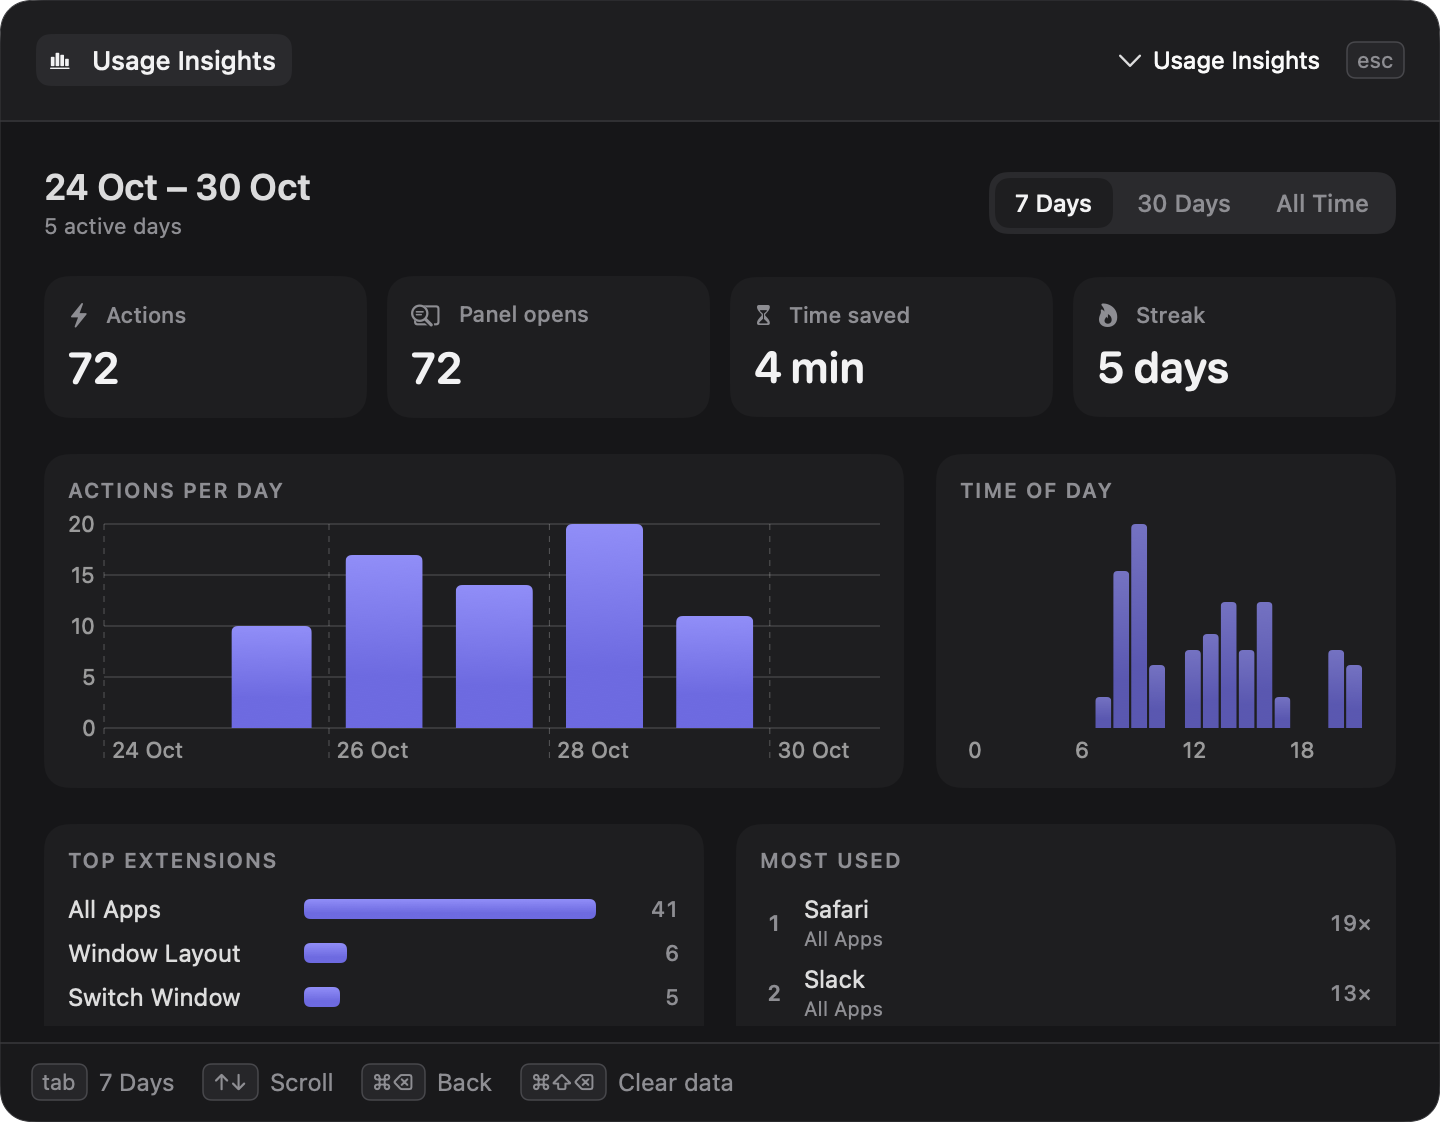
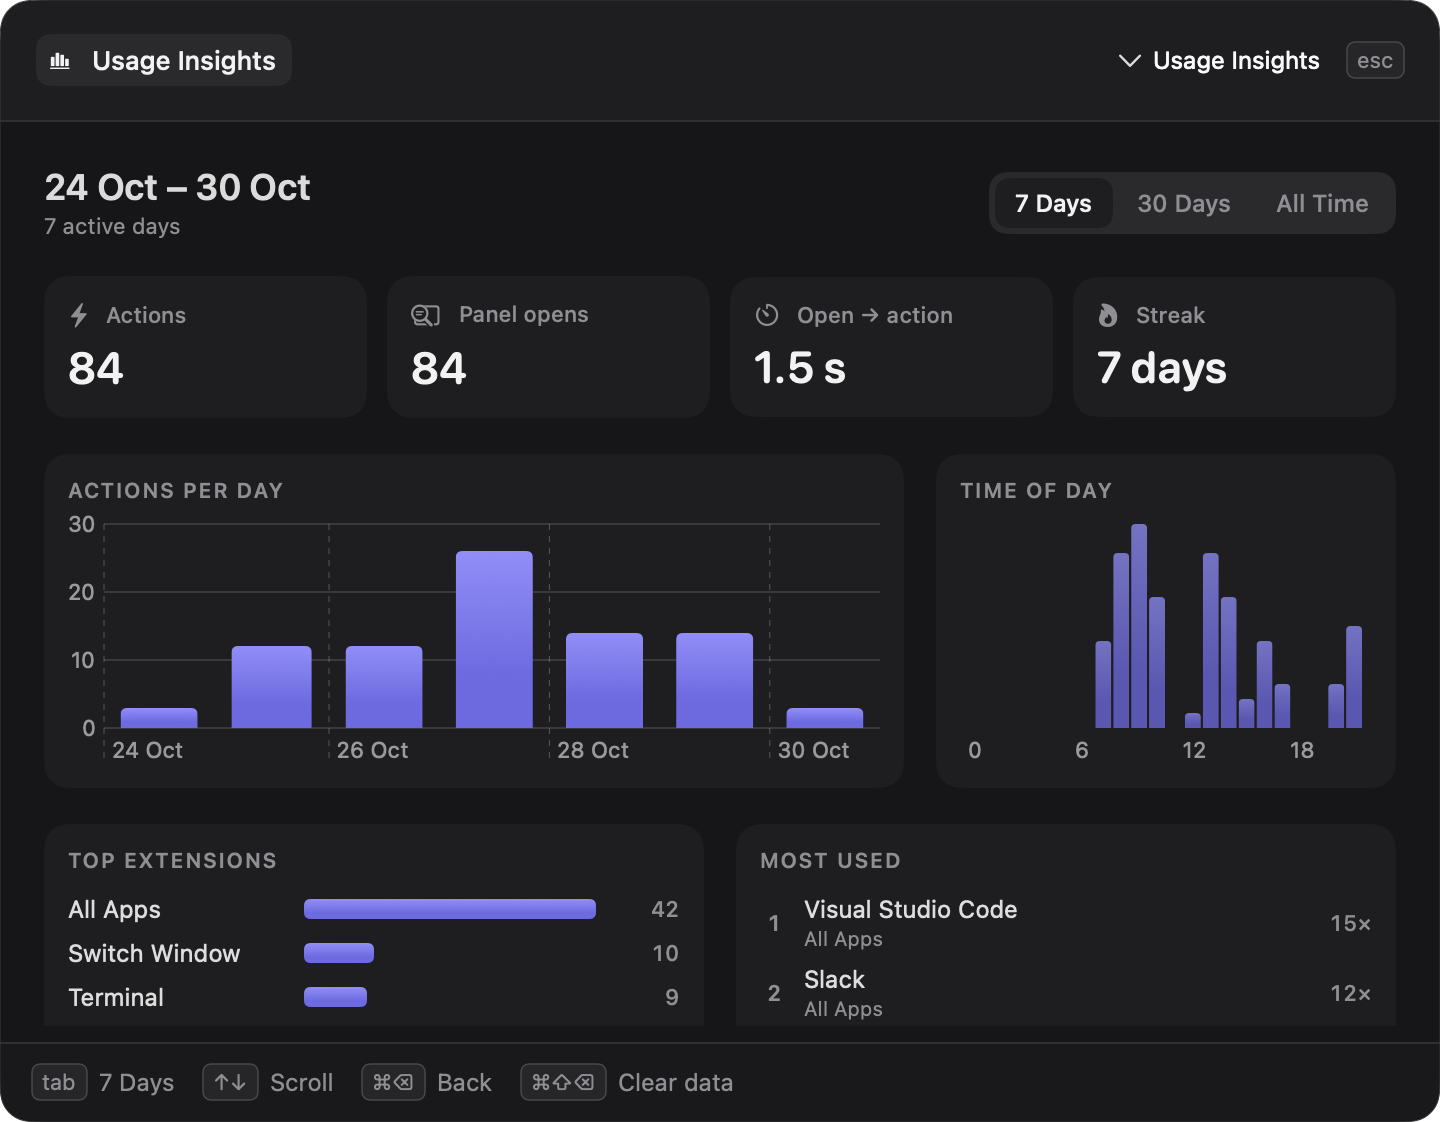
Usage Insights: drop the 'time saved' estimate
It was a flat 3 s per action, not a measurement. The tile now shows the measured
median time from opening the panel to running an action.

diff --git a/Sources/Slashlight/Host/Usage.swift b/Sources/Slashlight/Host/Usage.swift
@@ -181,9 +181,6 @@ struct UsageReport {
         let count: Int
     }
 
-    /// Rough time a keyboard launch saves over finding the same thing with the mouse.
-    static let secondsSavedPerAction = 3.0
-
     let period: Period
     let opens: Int
     let actions: Int
@@ -202,8 +199,6 @@ struct UsageReport {
     /// Median milliseconds from opening the panel to running an action.
     let medianLatency: Int?
     let unused: [String]
-
-    var minutesSaved: Double { Double(actions) * Self.secondsSavedPerAction / 60 }
 
     /// `extensions` maps every enabled extension id to its title; the ones never used show up in `unused`.
     init(events: [UsageEvent], period: Period, extensions: [String: String], now: Date = Date(), calendar: Calendar = .current) {
@@ -276,7 +271,6 @@ struct UsageReport {
         if let share = keyboardShare, share < 0.8 {
             out.append("\(Int((1 - share) * 100))% of picks were mouse clicks. ↵ runs the selection and ⌘1…⌘9 run any of the first nine.")
         }
-        if minutesSaved >= 1 { out.append("That's about \(Int(minutesSaved.rounded())) minutes saved versus reaching for the mouse.") }
         if let idea = unused.first { out.append("Haven't tried \(idea) yet? Type / to find it.") }
         return out
     }

diff --git a/Sources/Slashlight/Extensions/InsightsExtension.swift b/Sources/Slashlight/Extensions/InsightsExtension.swift
@@ -160,7 +160,7 @@ struct InsightsDashboard: View {
         HStack(spacing: 10) {
             tile("Actions", "\(r.actions)", "bolt.fill")
             tile("Panel opens", "\(r.opens)", "rectangle.and.text.magnifyingglass")
-            tile("Time saved", r.minutesSaved < 60 ? "\(Int(r.minutesSaved.rounded())) min" : String(format: "%.1f h", r.minutesSaved / 60), "hourglass")
+            tile("Open → action", r.medianLatency.map { String(format: "%.1f s", Double($0) / 1000) } ?? "—", "timer")
             tile("Streak", "\(r.streak) day\(r.streak == 1 ? "" : "s")", "flame.fill")
         }
     }
@@ -264,7 +264,6 @@ struct InsightsDashboard: View {
                 HStack(spacing: 14) {
                     if let s = r.firstResultShare { metric("First-result picks", "\(Int(s * 100))%") }
                     if let s = r.keyboardShare { metric("From the keyboard", "\(Int(s * 100))%") }
-                    if let l = r.medianLatency { metric("Open → action", String(format: "%.1f s", Double(l) / 1000)) }
                     metric("Active days", "\(r.activeDays)")
                 }
                 .padding(.top, 4)

diff --git a/Tests/SlashlightTests/UsageReportTests.swift b/Tests/SlashlightTests/UsageReportTests.swift
@@ -90,11 +90,6 @@ struct UsageReportTests {
         // Latencies over a minute (panel left open) are ignored.
         #expect(r.medianLatency == 1000)
     }
-
-    @Test func minutesSaved() {
-        let r = report((0..<40).map { _ in run("apps", "Safari") })
-        #expect(r.minutesSaved == 2)
-    }
 }
 
 @Suite("Usage event format")

diff --git a/README.md b/README.md
@@ -34,7 +34,7 @@ Apps, files, windows on every Space, a calculator, snippets, clipboard history a
 | <img src="docs/images/commands.png" alt="Command mode listing all extensions" width="420"> | **Command mode.** Type `/` for every extension and your own commands: shell scripts, URLs with `{query}` quicklinks, Shortcuts, HTTP calls and AppleScript. |
 | <img src="docs/images/emoji-dark.png" alt="Emoji picker grid" width="420"> | **Emoji & symbols.** A searchable grid with recents first, plus ⌘ ⌥ → © and friends. |
 | <img src="docs/images/system-dark.png" alt="System commands" width="420"> | **System commands.** Lock, sleep, restart, empty trash, eject disks, toggle dark mode, quit all apps. |
-| <img src="docs/images/insights-dark.png" alt="Usage Insights dashboard" width="420"> | **Usage Insights.** `/insights` shows what you use most, when you're busiest, your streak and how much time the keyboard saves you. The data stays on your Mac. |
+| <img src="docs/images/insights-dark.png" alt="Usage Insights dashboard" width="420"> | **Usage Insights.** `/insights` shows what you use most, when you're busiest, your streak and how fast you get from opening the panel to an action. The data stays on your Mac. |
 
 Also built in:
 

diff --git a/CHANGELOG.md b/CHANGELOG.md
@@ -5,7 +5,7 @@ All notable changes to this project are documented here. The format follows [Kee
 ## [Unreleased]
 
 ### Added
-- Usage Insights (`/insights`): a dashboard of your own usage, with actions per day, busiest hours, top extensions and items, streak, time saved and tips. Recorded locally only.
+- Usage Insights (`/insights`): a dashboard of your own usage, with actions per day, busiest hours, top extensions and items, streak, median time to action and tips. Recorded locally only.
 
 ### Added
 - Home screen shows your 5 most recently used extensions above the full A–Z list.

diff --git a/docs/user-guide.md b/docs/user-guide.md
@@ -80,7 +80,7 @@ When a task that ran longer than 3 s finishes while you are elsewhere, you get a
 
 `/insights` opens a dashboard of how you use Slashlight:
 
-- totals, plus the time saved (estimated at 3 s per action);
+- totals, plus the median time from opening the panel to running an action;
 - your streak, actions per day and the busiest hours;
 - top extensions and the items you open most;
 - how often the first result was the right one, and keyboard versus mouse;
